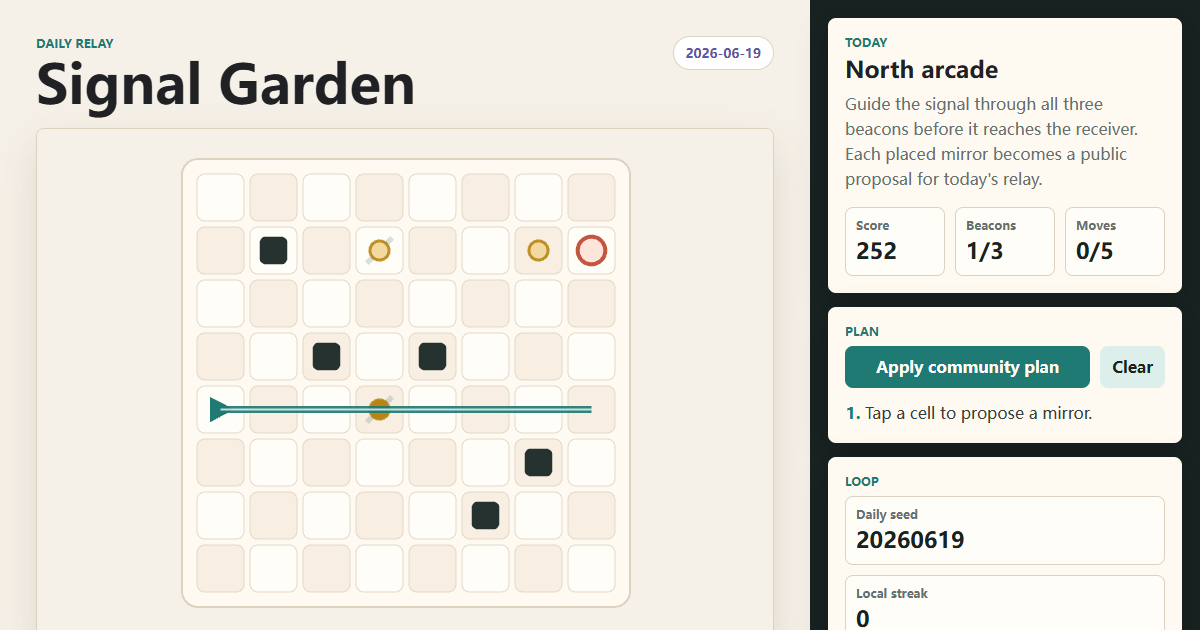
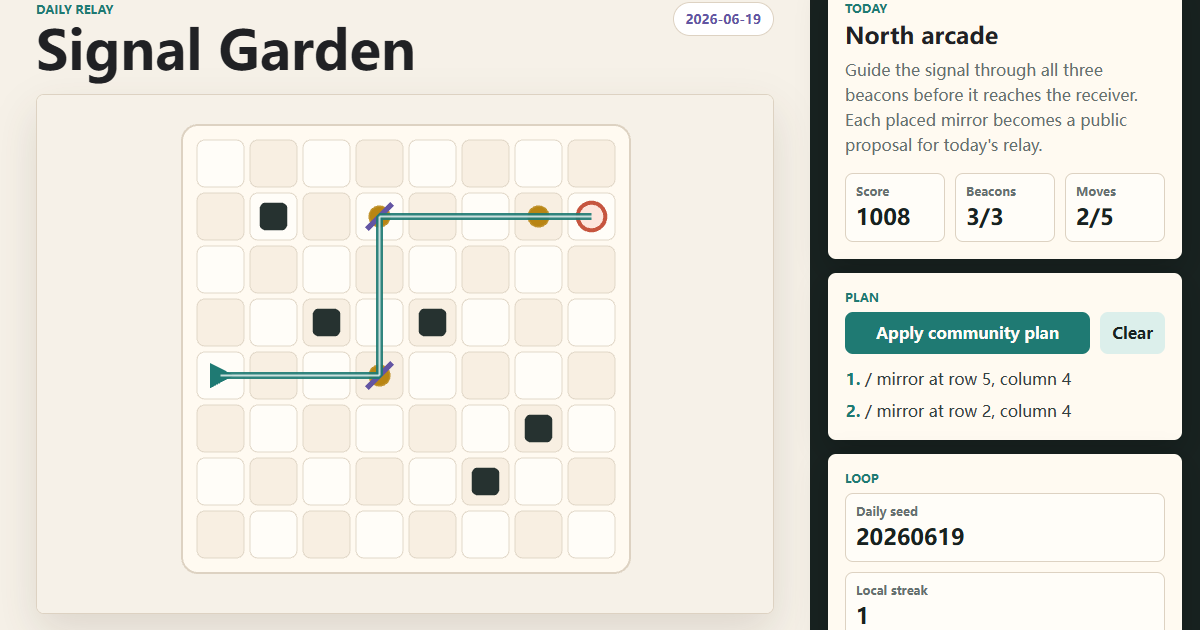
Add local proposal consensus loop

diff --git a/src/game/proposals.js b/src/game/proposals.js
@@ -1,0 +1,79 @@
+import { traceSignal } from "./puzzle.js";
+import { hashSeed } from "./seeded.js";
+
+function normalizeAuthor(author) {
+  const value = String(author || "local-player").trim();
+  return value.slice(0, 32) || "local-player";
+}
+
+function proposalId(puzzleId, author, plan, createdAt) {
+  const raw = `${puzzleId}:${author}:${createdAt}:${JSON.stringify(plan)}`;
+  return `sg-${hashSeed(raw).toString(16).padStart(8, "0")}`;
+}
+
+export function createProposal({ puzzle, plan, author = "local-player", createdAt = new Date().toISOString() }) {
+  const result = traceSignal(puzzle, plan);
+  const normalizedAuthor = normalizeAuthor(author);
+  return {
+    id: proposalId(puzzle.id, normalizedAuthor, result.moves, createdAt),
+    puzzleId: puzzle.id,
+    author: normalizedAuthor,
+    createdAt,
+    plan: result.moves,
+    status: result.status,
+    complete: result.complete,
+    score: result.score,
+    beacons: result.hitBeacons.length,
+    moves: result.moves.length,
+  };
+}
+
+export function rankProposals(proposals = []) {
+  return [...proposals].sort((left, right) => {
+    if (left.complete !== right.complete) {
+      return left.complete ? -1 : 1;
+    }
+    if (left.score !== right.score) {
+      return right.score - left.score;
+    }
+    if (left.moves !== right.moves) {
+      return left.moves - right.moves;
+    }
+    return String(left.createdAt).localeCompare(String(right.createdAt));
+  });
+}
+
+export function summarizeConsensus(puzzle, proposals = []) {
+  const ranked = rankProposals(proposals);
+  const best = ranked[0] || null;
+  const completed = ranked.filter((proposal) => proposal.complete).length;
+  return {
+    puzzleId: puzzle.id,
+    proposalCount: ranked.length,
+    completed,
+    best,
+    top: ranked.slice(0, 5),
+  };
+}
+
+export function toCommunityPayload(puzzle, proposals = []) {
+  const consensus = summarizeConsensus(puzzle, proposals);
+  return {
+    type: "signal-garden-consensus",
+    day: puzzle.id,
+    board: puzzle.title,
+    moveLimit: puzzle.moveLimit,
+    beacons: puzzle.beacons.length,
+    proposalCount: consensus.proposalCount,
+    completed: consensus.completed,
+    best: consensus.best
+      ? {
+          score: consensus.best.score,
+          moves: consensus.best.moves,
+          complete: consensus.best.complete,
+          plan: consensus.best.plan,
+        }
+      : null,
+  };
+}
+

diff --git a/src/ui.js b/src/ui.js
@@ -1,4 +1,5 @@
-import { getLocalStreak, savePlan } from "./state/store.js";
+import { createProposal, summarizeConsensus } from "./game/proposals.js";
+import { getLocalStreak, loadProposals, savePlan, saveProposal } from "./state/store.js";
 
 const statusText = {
   complete: "Complete",
@@ -29,7 +30,11 @@ export function bindUi(scene) {
     applyPlan: document.querySelector("#apply-plan"),
     clearPlan: document.querySelector("#clear-plan"),
     copyBriefing: document.querySelector("#copy-briefing"),
+    saveProposal: document.querySelector("#save-proposal"),
+    proposalSummary: document.querySelector("#proposal-summary"),
+    proposalList: document.querySelector("#proposal-list"),
   };
+  let latest = null;
 
   refs.applyPlan.addEventListener("click", () => scene.applyCommunityPlan());
   refs.clearPlan.addEventListener("click", () => scene.clearPlan());
@@ -46,8 +51,22 @@ export function bindUi(scene) {
     }
   });
 
+  refs.saveProposal.addEventListener("click", () => {
+    if (!latest) {
+      return;
+    }
+    const proposal = createProposal({
+      puzzle: latest.puzzle,
+      plan: latest.plan,
+      author: "local-player",
+    });
+    saveProposal(proposal);
+    renderConsensus(refs, latest.puzzle);
+  });
+
   window.addEventListener("signal-garden:update", (event) => {
     const { puzzle, result, plan, briefing } = event.detail;
+    latest = event.detail;
     refs.dayChip.textContent = puzzle.id;
     refs.title.textContent = puzzle.title;
     refs.brief.textContent = puzzle.brief;
@@ -71,6 +90,27 @@ export function bindUi(scene) {
       refs.moveList.firstChild.textContent = "Tap a cell to propose a mirror.";
     }
     savePlan(puzzle.id, plan, result.complete);
+    renderConsensus(refs, puzzle);
   });
 }
 
+function renderConsensus(refs, puzzle) {
+  const proposals = loadProposals(puzzle.id);
+  const consensus = summarizeConsensus(puzzle, proposals);
+  refs.proposalSummary.textContent = consensus.proposalCount
+    ? `${consensus.completed}/${consensus.proposalCount} saved proposals complete. Best score ${consensus.best.score}.`
+    : "No saved proposals yet.";
+  refs.proposalList.replaceChildren(
+    ...(consensus.top.length
+      ? consensus.top.map((proposal) => {
+          const item = document.createElement("li");
+          const status = proposal.complete ? "complete" : proposal.status;
+          item.textContent = `${proposal.author}: ${proposal.score} pts, ${proposal.beacons}/3 beacons, ${proposal.moves} moves, ${status}`;
+          return item;
+        })
+      : [document.createElement("li")]),
+  );
+  if (!consensus.top.length) {
+    refs.proposalList.firstChild.textContent = "Save a plan to start the local consensus list.";
+  }
+}

diff --git a/src/state/store.js b/src/state/store.js
@@ -1,4 +1,5 @@
 const STORAGE_KEY = "signal-garden-state";
+const PROPOSAL_KEY = "signal-garden-proposals";
 
 function safeRead() {
   try {
@@ -38,3 +39,28 @@ export function getLocalStreak(currentPuzzleId) {
     }, 0);
 }
 
+function readProposals() {
+  try {
+    return JSON.parse(window.localStorage.getItem(PROPOSAL_KEY) || "{}");
+  } catch {
+    return {};
+  }
+}
+
+function writeProposals(state) {
+  window.localStorage.setItem(PROPOSAL_KEY, JSON.stringify(state));
+}
+
+export function loadProposals(puzzleId) {
+  const state = readProposals();
+  return state[puzzleId] || [];
+}
+
+export function saveProposal(proposal) {
+  const state = readProposals();
+  const existing = state[proposal.puzzleId] || [];
+  const withoutDuplicate = existing.filter((item) => item.id !== proposal.id);
+  state[proposal.puzzleId] = [proposal, ...withoutDuplicate].slice(0, 24);
+  writeProposals(state);
+  return state[proposal.puzzleId];
+}

diff --git a/src/styles.css b/src/styles.css
@@ -199,6 +199,14 @@ h2 {
   font-weight: 900;
 }
 
+.consensus-list {
+  padding-left: 24px;
+}
+
+.consensus-list li {
+  overflow-wrap: anywhere;
+}
+
 .loop-list {
   display: grid;
   gap: 10px;
@@ -223,7 +231,7 @@ textarea {
   }
 
   .control-panel {
-    grid-template-columns: repeat(3, minmax(0, 1fr));
+    grid-template-columns: repeat(2, minmax(0, 1fr));
   }
 }
 

diff --git a/index.html b/index.html
@@ -67,10 +67,16 @@
           <button id="copy-briefing" class="wide" type="button">Copy briefing</button>
           <textarea id="briefing-output" readonly aria-label="Briefing output"></textarea>
         </section>
+
+        <section class="panel">
+          <p class="eyebrow">Community</p>
+          <button id="save-proposal" class="wide" type="button">Save local proposal</button>
+          <p id="proposal-summary" class="muted"></p>
+          <ol id="proposal-list" class="move-list consensus-list"></ol>
+        </section>
       </aside>
     </main>
 
     <script type="module" src="/src/main.js"></script>
   </body>
 </html>
-

diff --git a/docs/devvit-adapter-plan.md b/docs/devvit-adapter-plan.md
@@ -25,3 +25,24 @@ The browser prototype keeps the game rules separate from the renderer so the sam
 - Render the current consensus and next prompt.
 - Avoid collecting private user data beyond platform-provided public interaction metadata.
 
+## Current Local Adapter Boundary
+
+The browser prototype now has a storage-neutral consensus layer:
+
+- `src/game/proposals.js`
+  - `createProposal`
+  - `rankProposals`
+  - `summarizeConsensus`
+  - `toCommunityPayload`
+- `src/state/store.js`
+  - local-only proposal persistence that can be replaced by a Devvit server route later.
+
+## Candidate Devvit Routes
+
+| Route | Method | Purpose |
+|---|---|---|
+| `/api/init` | GET | Return today's board, current consensus, and viewer-safe display state. |
+| `/api/proposal` | POST | Accept a bounded mirror plan, recompute the score server-side, and store one proposal. |
+| `/api/archive/:day` | GET | Return a read-only summary for a previous board. |
+
+The server route should never trust a client-provided score. It should recompute through `traceSignal` and `createProposal`.

diff --git a/docs/gallery_assets.md b/docs/gallery_assets.md
@@ -1,6 +1,6 @@
 # Gallery Assets
 
-Generated: 2026-06-19
+Generated: 2026-06-20
 
 ## Files
 
@@ -9,20 +9,19 @@ Generated: 2026-06-19
    - First gallery image or social preview.
 
 2. `docs/desktop-preview.png`
-   - 1440x962
-   - Desktop play surface with side controls.
+   - 1440x1239
+   - Desktop play surface with side controls and local consensus panel.
 
 3. `docs/mobile-preview.png`
-   - 390x2074
-   - Narrow viewport check for the full interaction surface.
+   - 390x2352
+   - Narrow viewport check for the full interaction surface and proposal list.
 
 ## Caption
 
-Daily browser puzzle prototype with deterministic board generation, local proposal state, and a compact briefing export.
+Daily browser puzzle prototype with deterministic board generation, local proposal consensus, and a compact briefing export.
 
 ## Guardrails
 
 - Do not upload screenshots that contain private account data.
 - Do not claim platform deployment until an account owner completes the relevant setup.
 - Do not include credentials, tokens, billing pages, or private console screenshots.
-

diff --git a/docs/design.md b/docs/design.md
@@ -15,9 +15,14 @@
 - The briefing format is small enough to fit inside a post, comment, or chat surface.
 - The renderer is independent of the puzzle rules, so the rules can move to a server or platform adapter later.
 
+## Community Proposal Layer
+
+The current prototype saves proposals locally, ranks completed paths above partial paths, and produces a compact consensus payload. This keeps the community loop testable before a platform adapter exists.
+
+Future server routes should recompute every proposal score from the shared puzzle module instead of trusting client-provided values.
+
 ## Visual Language
 
 - Warm paper background for a puzzle-table feel.
 - Teal signal path, coral receiver, amber beacons, violet mirrors.
 - Ghost mirrors show the suggested community plan without solving the board automatically.
-